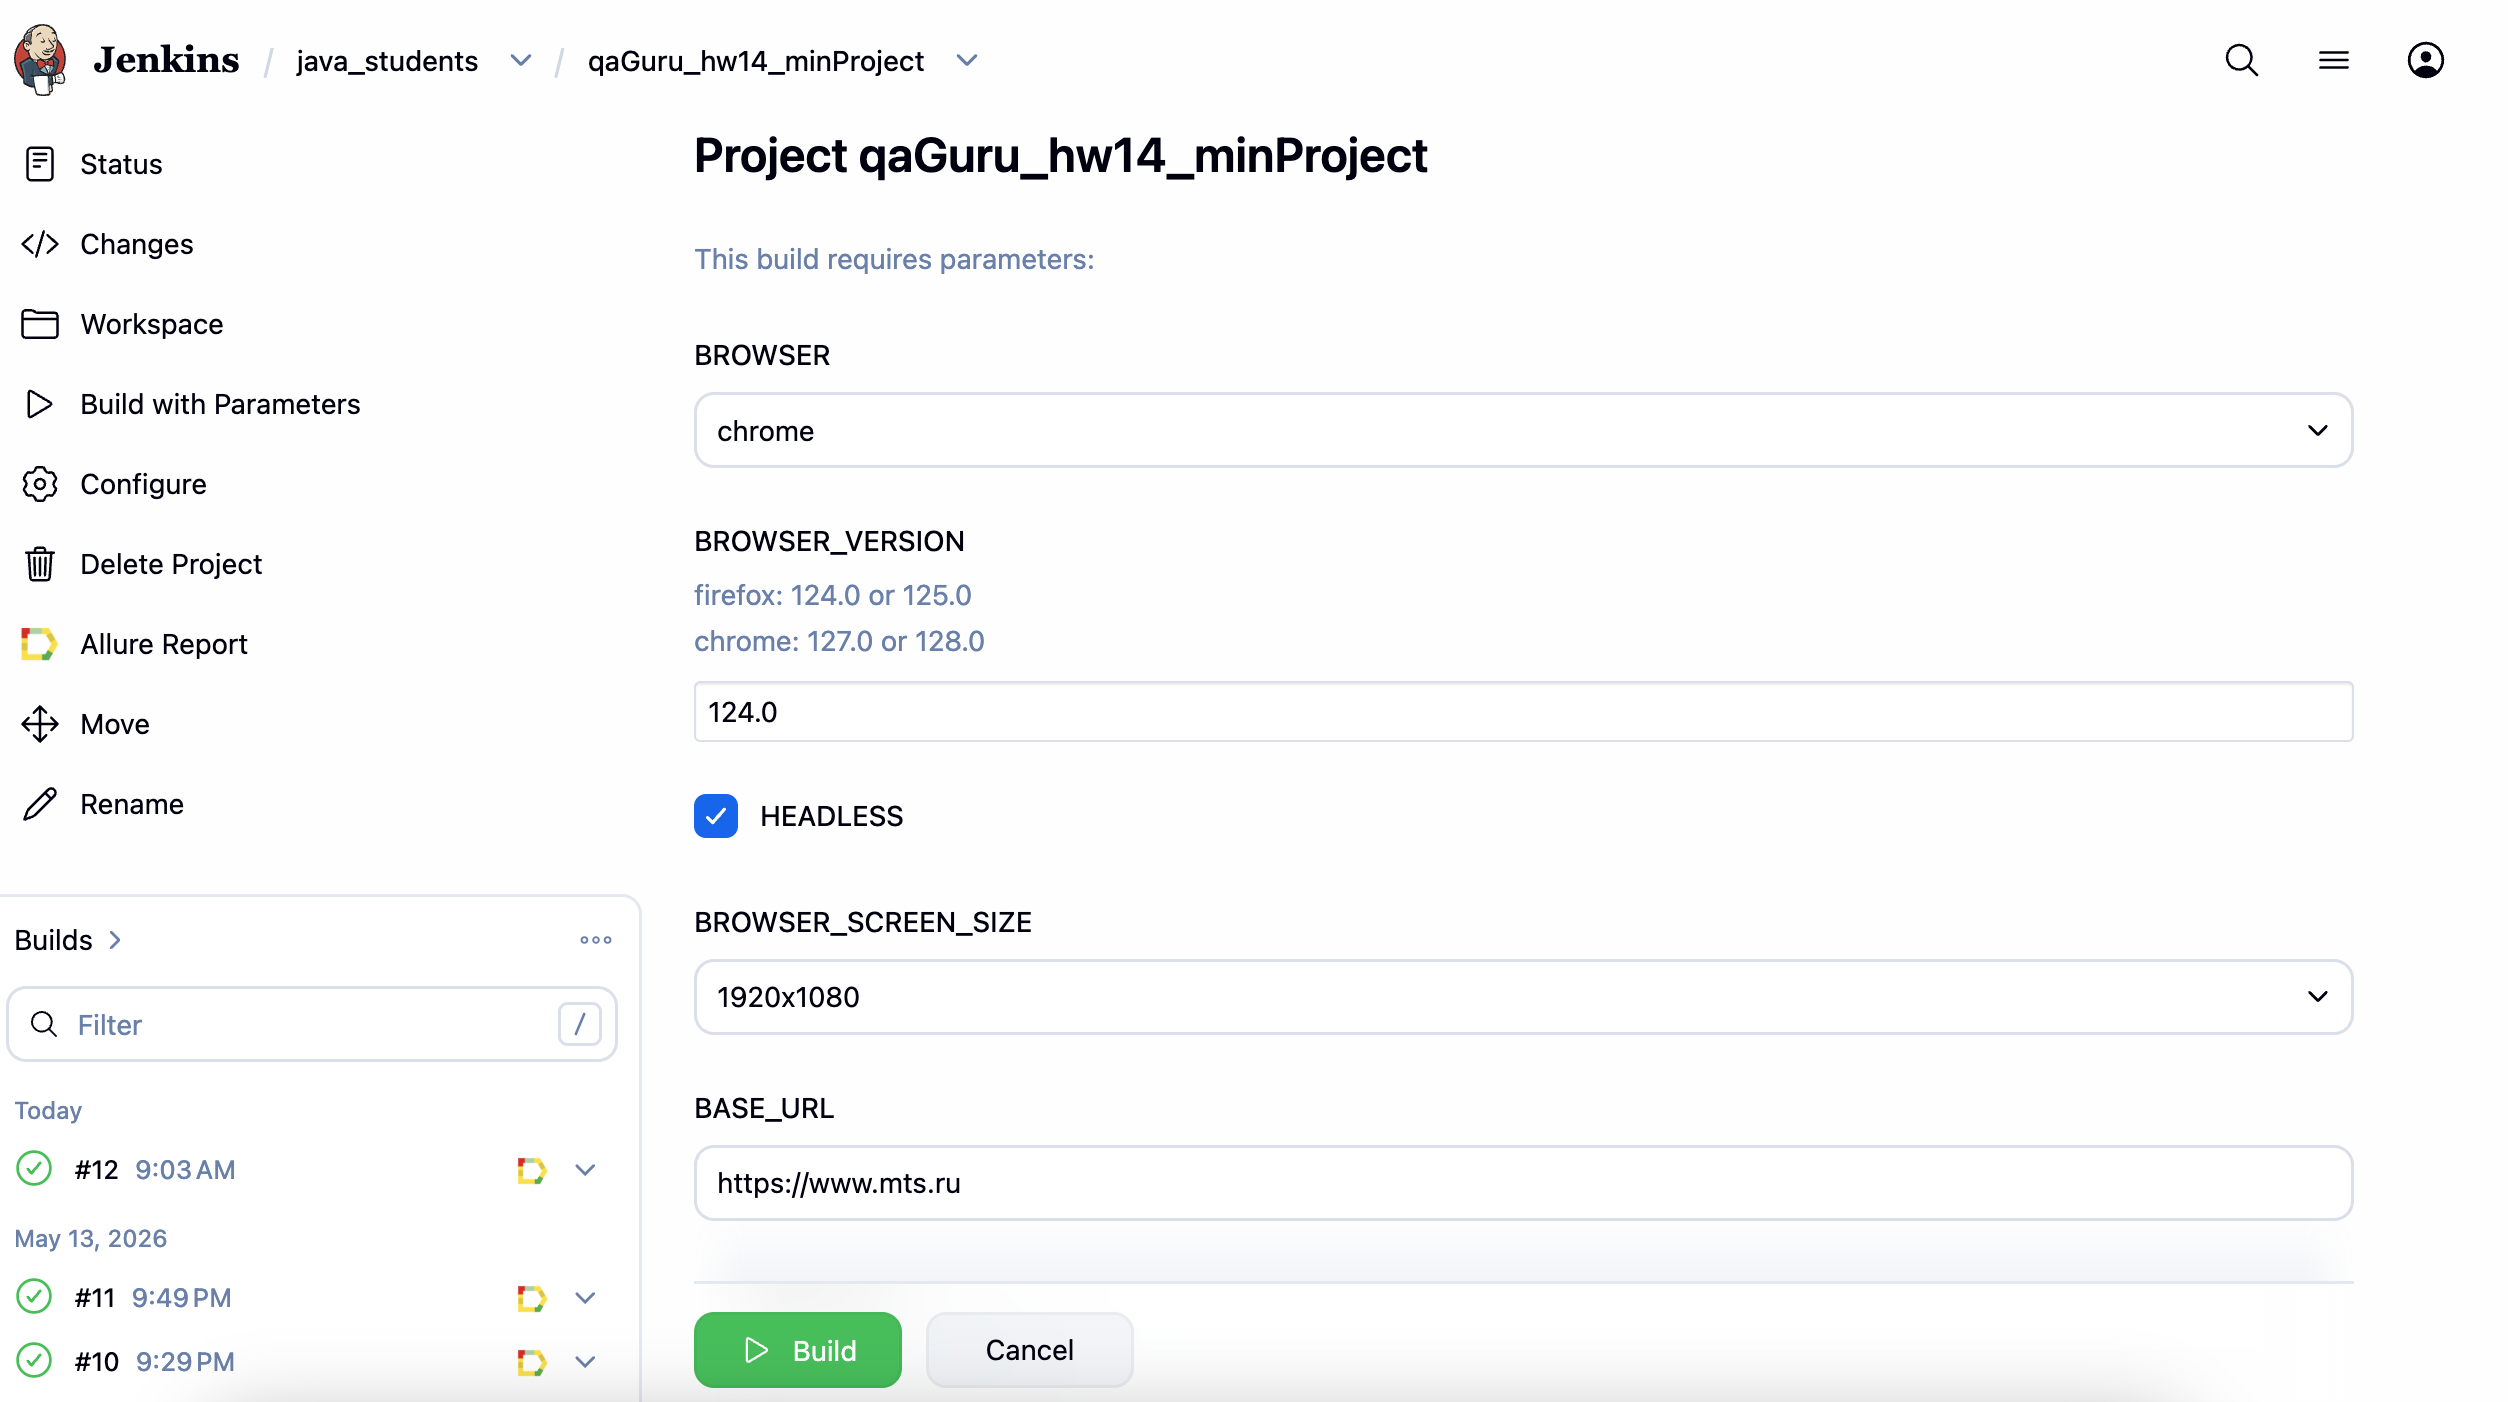
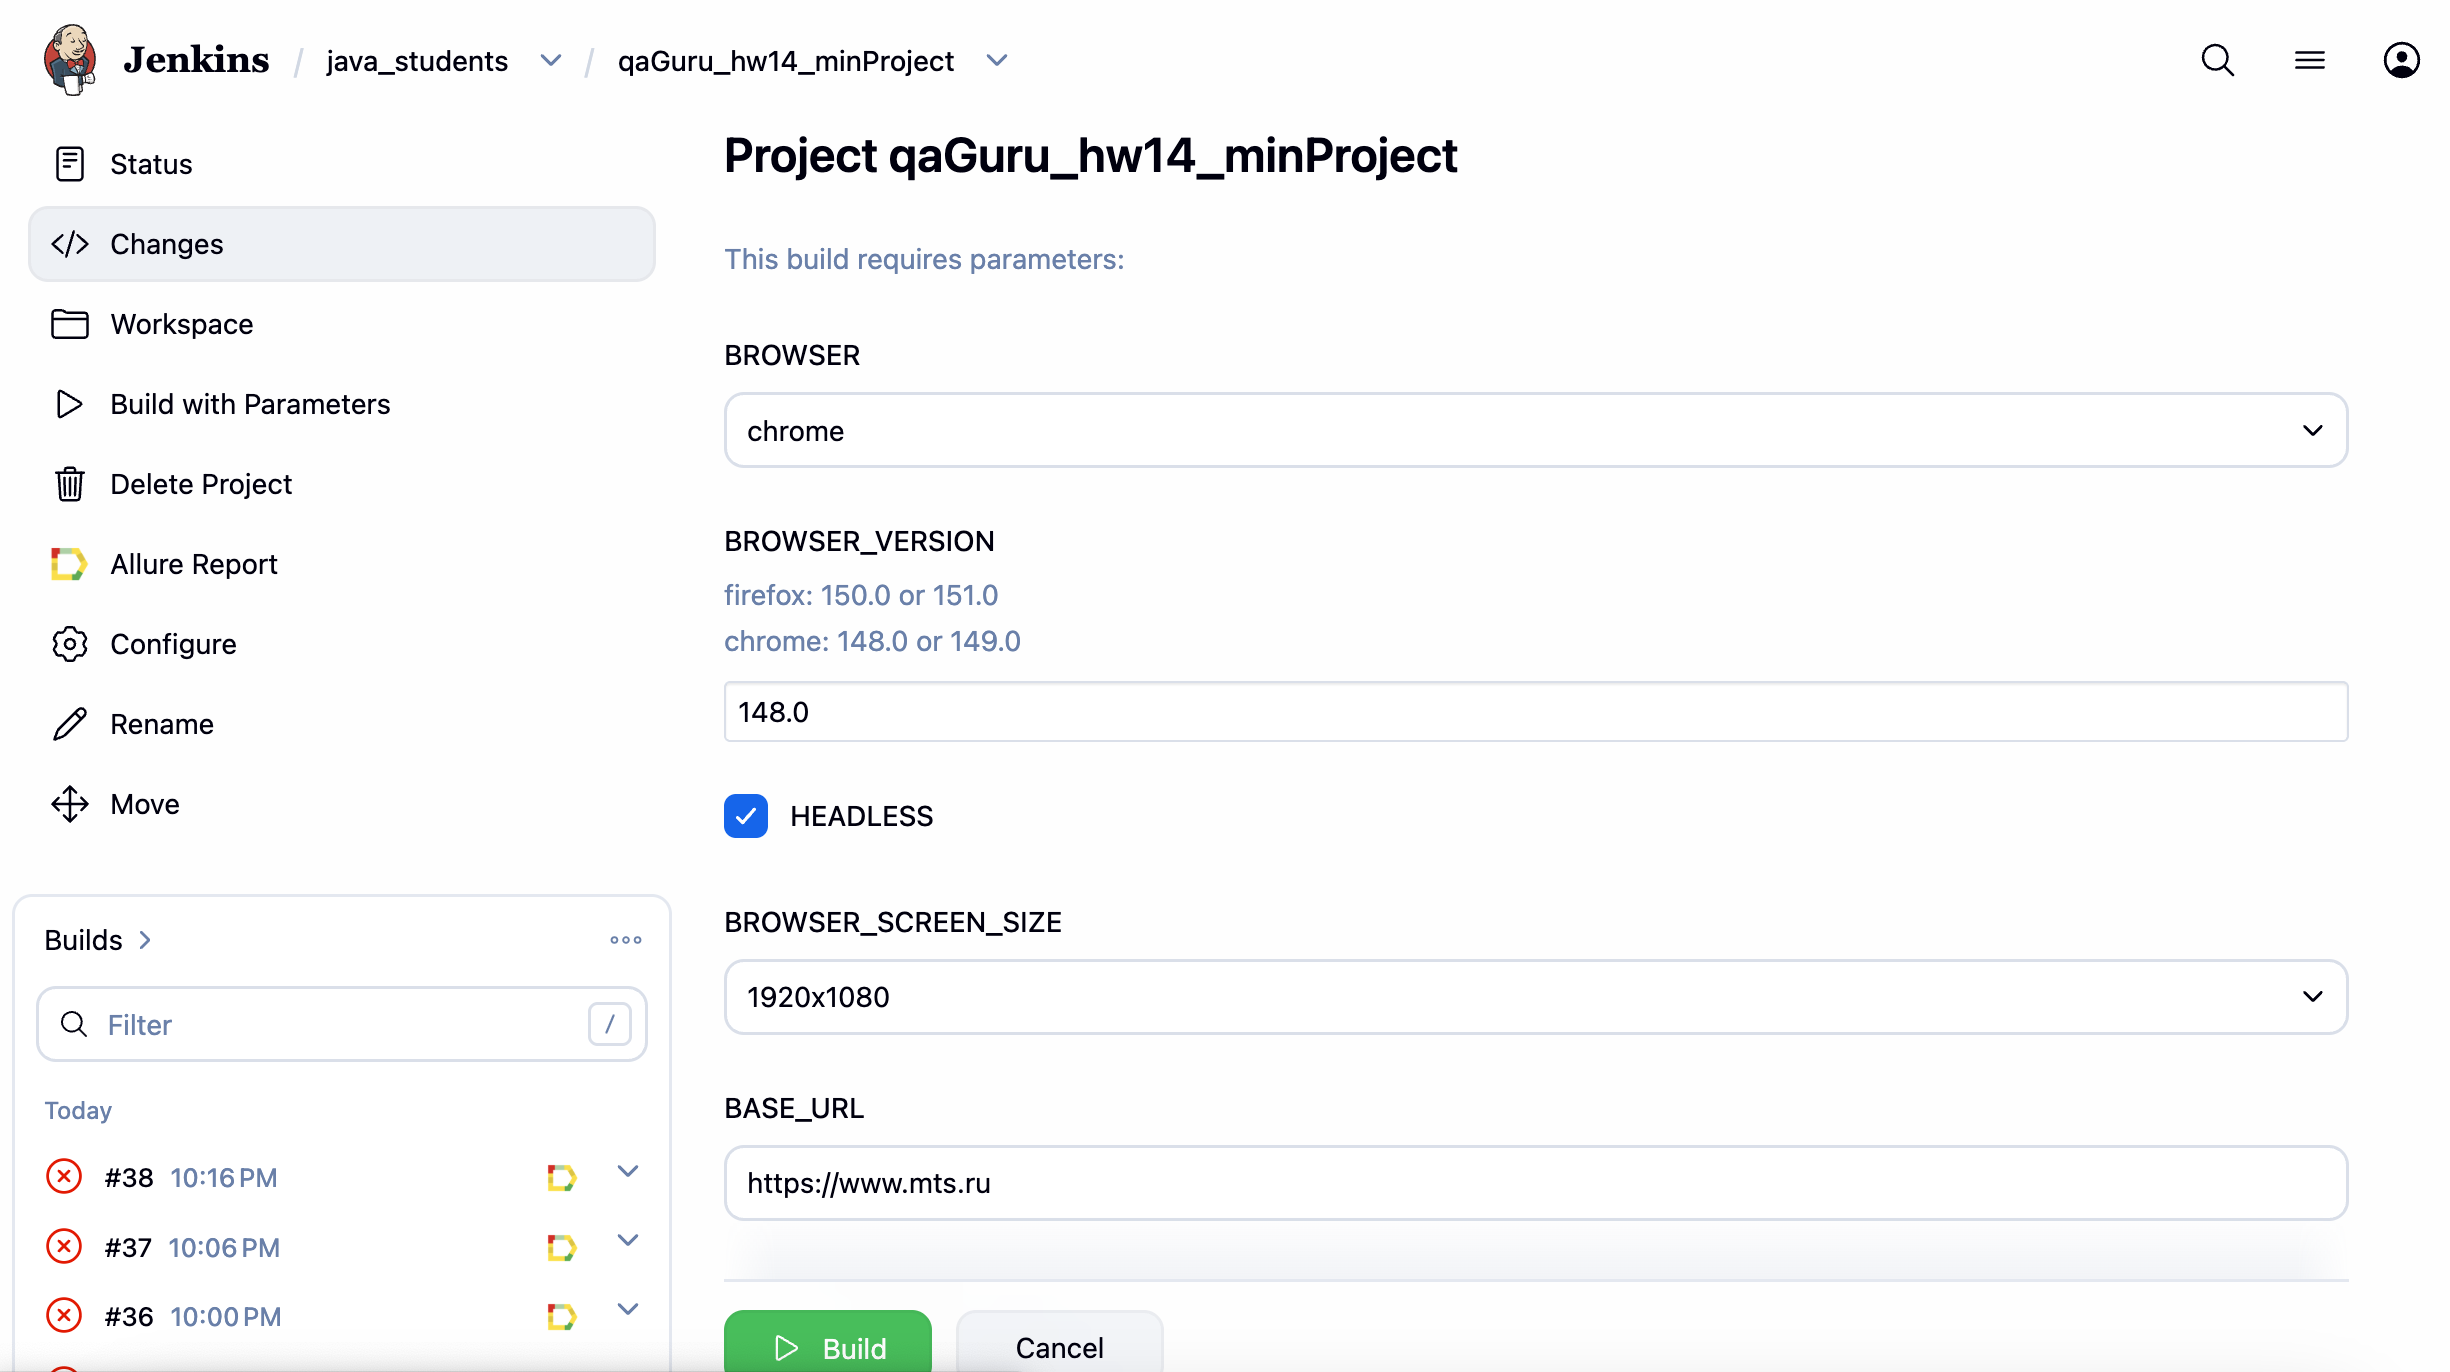
fix readme

diff --git a/src/test/java/tests/TestBase.java b/src/test/java/tests/TestBase.java
@@ -16,15 +16,15 @@ public class TestBase {
     static void setUpConfig() {
 
         Configuration.browser = System.getProperty("browser", "chrome");
-        Configuration.browserVersion = System.getProperty("browserVersion", "148.0");
+//        Configuration.browserVersion = System.getProperty("browserVersion", "148.0");
         Configuration.headless = Boolean.parseBoolean(System.getProperty("headless", "false"));
         Configuration.browserSize = System.getProperty("browserScreenSize", "1920x1080");
         Configuration.baseUrl = System.getProperty("baseUrl");
-        Configuration.remote = "https://"
-                + System.getProperty("selenoidLogin") + ":"
-                + System.getProperty("selenoidPass") + "@"
-                + System.getProperty("selenoidURL");
-
+//        Configuration.remote = "https://"
+//                + System.getProperty("selenoidLogin") + ":"
+//                + System.getProperty("selenoidPass") + "@"
+//                + System.getProperty("selenoidURL");
+//
         DesiredCapabilities capabilities = new DesiredCapabilities();
         capabilities.setCapability("selenoid:options", Map.<String, Object>of(
                 "enableVNC", true,

diff --git a/src/test/java/pages/MtsTendersPage.java b/src/test/java/pages/MtsTendersPage.java
@@ -6,8 +6,7 @@ import io.qameta.allure.Step;
 
 import static com.codeborne.selenide.Condition.text;
 import static com.codeborne.selenide.Condition.visible;
-import static com.codeborne.selenide.Selenide.$;
-import static com.codeborne.selenide.Selenide.$$;
+import static com.codeborne.selenide.Selenide.*;
 import static com.codeborne.selenide.WebDriverRunner.url;
 import static org.junit.jupiter.api.Assertions.assertTrue;
 
@@ -20,8 +19,9 @@ public class MtsTendersPage {
     // Actions
     @Step("Проверить, что открылся URL раздела 'Закупки'")
     public MtsTendersPage verifyTendersUrl() {
-        assertTrue(url().contains(data.TestData.TENDERS_URL),
-                "Ожидался URL закупок, но открылся: " + url());
+       Wait().until(driver -> com.codeborne.selenide.WebDriverRunner.url().contains("mts-tenders"));
+        assertTrue(com.codeborne.selenide.WebDriverRunner.url().contains(data.TestData.TENDERS_URL),
+                "URL не содержит адрес раздела 'Закупки'. Открылся: " + com.codeborne.selenide.WebDriverRunner.url());
         return this;
     }
 
